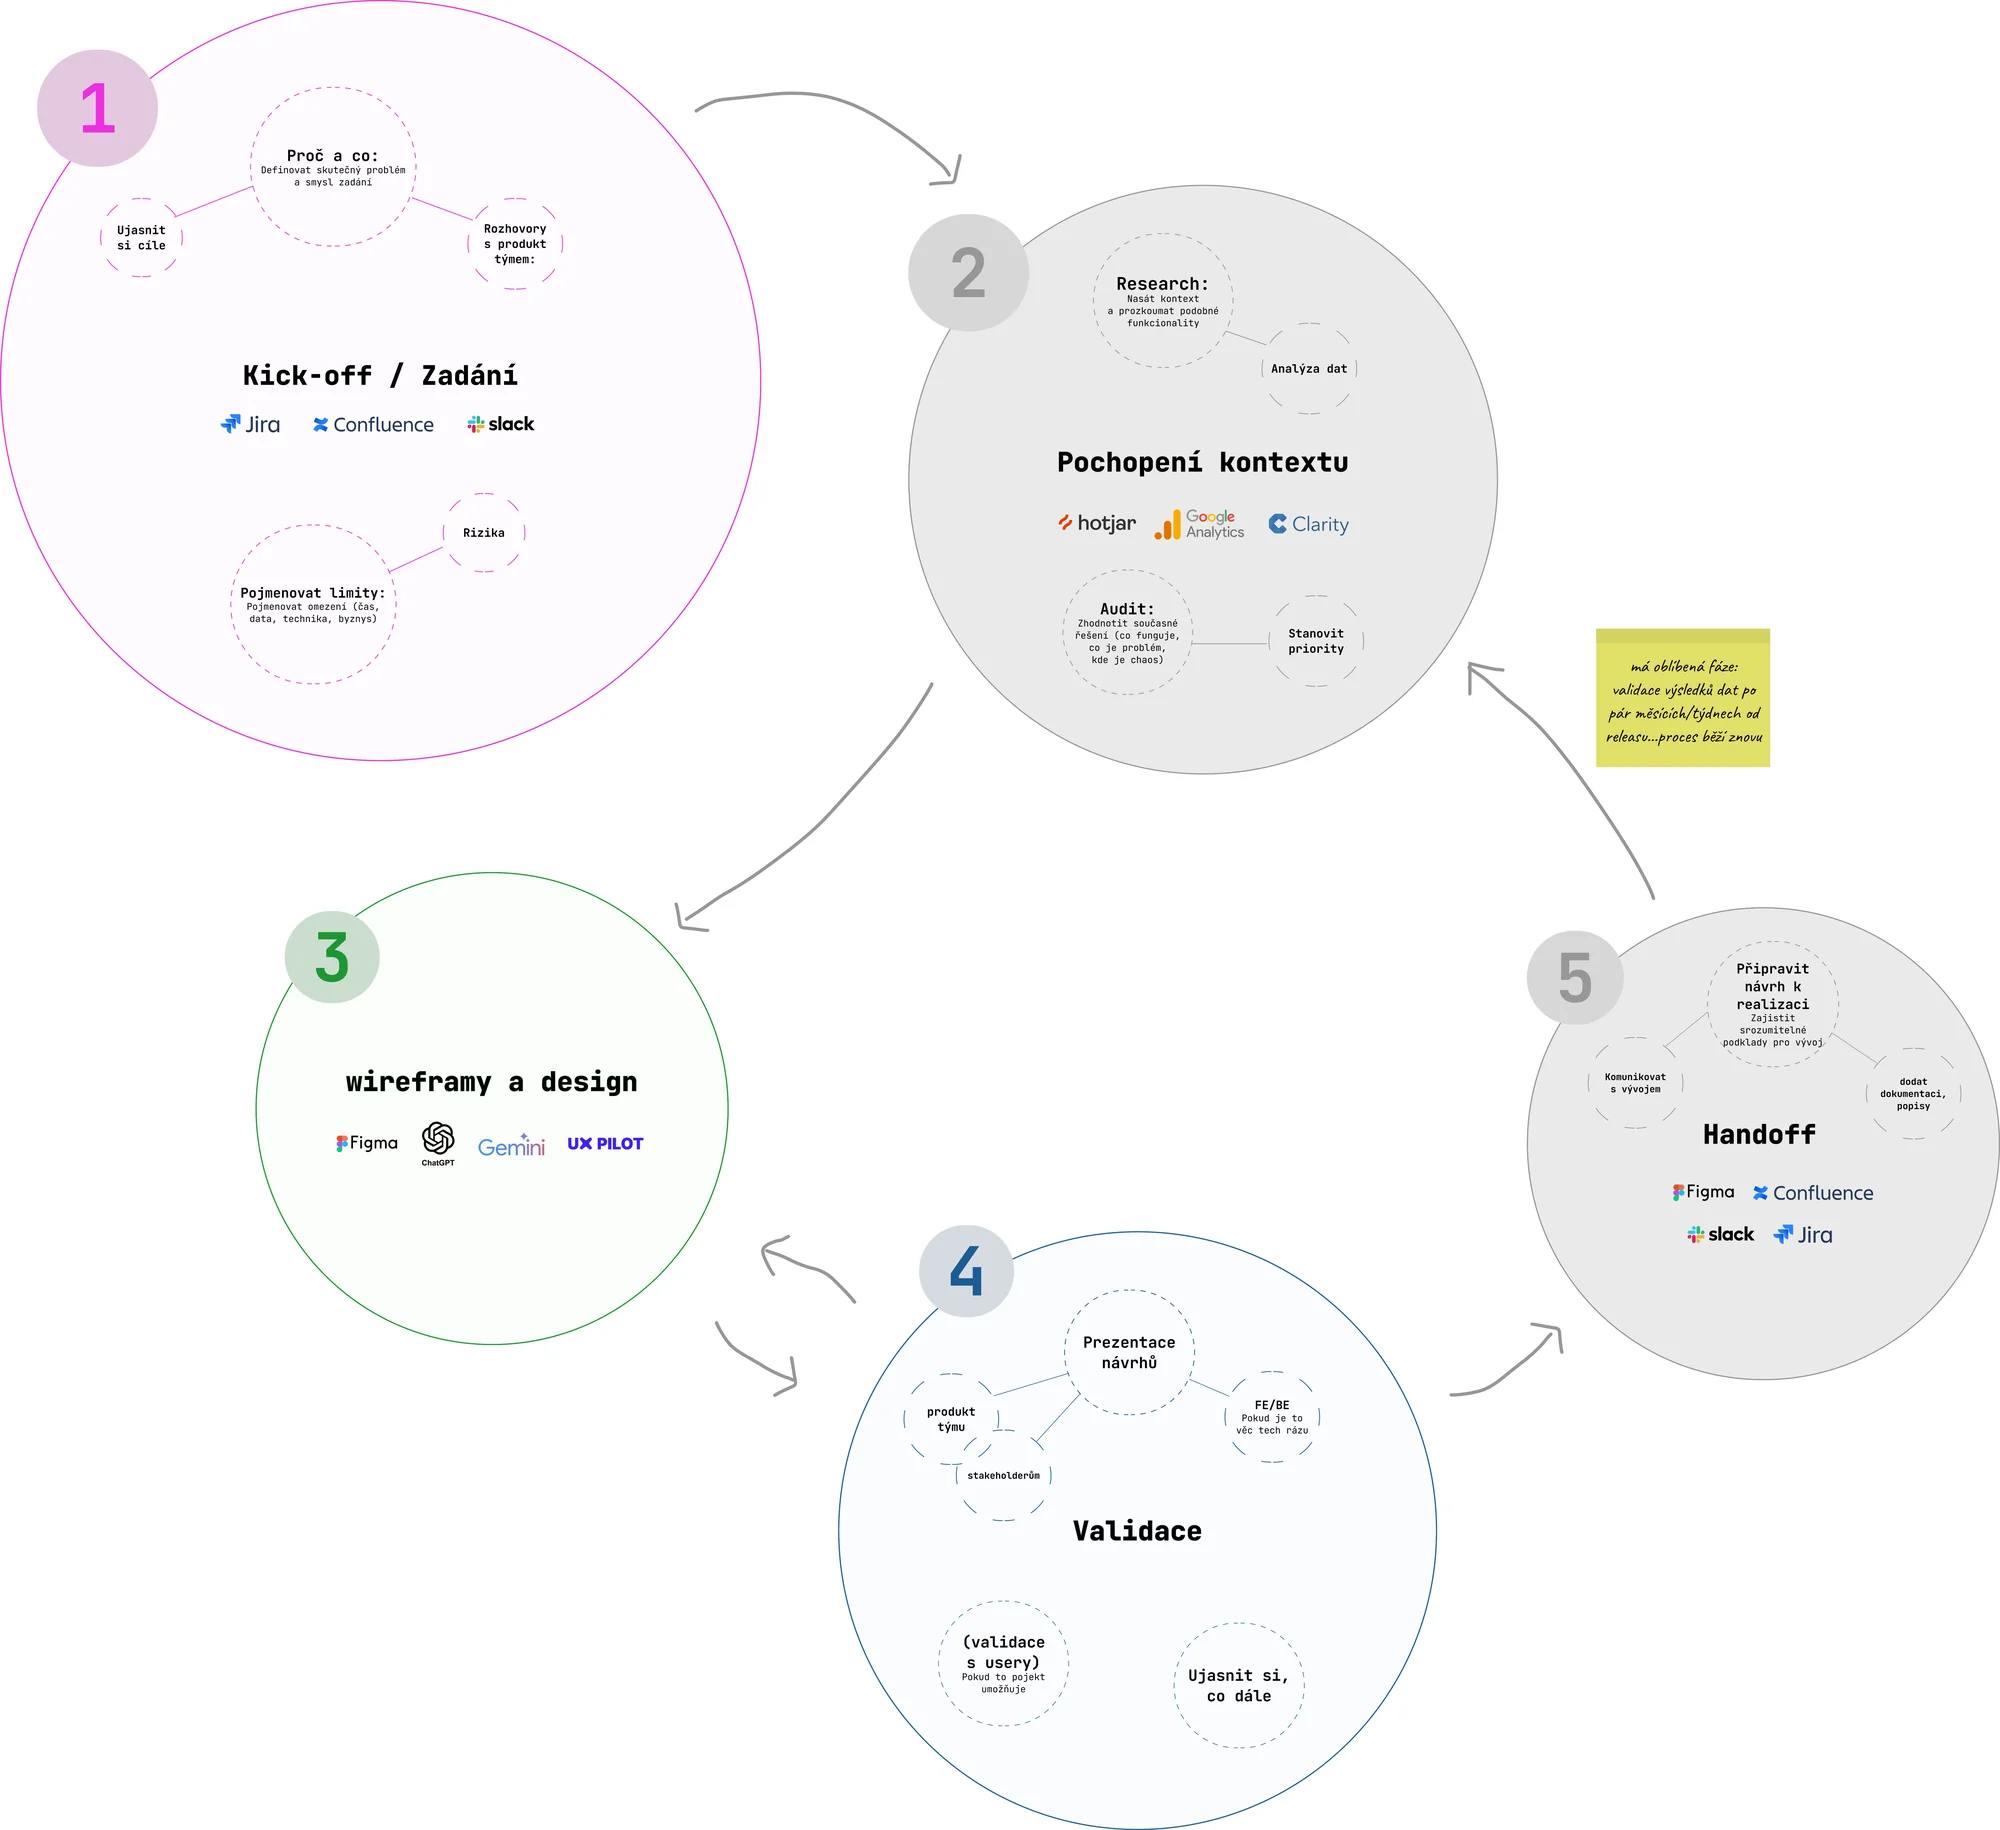
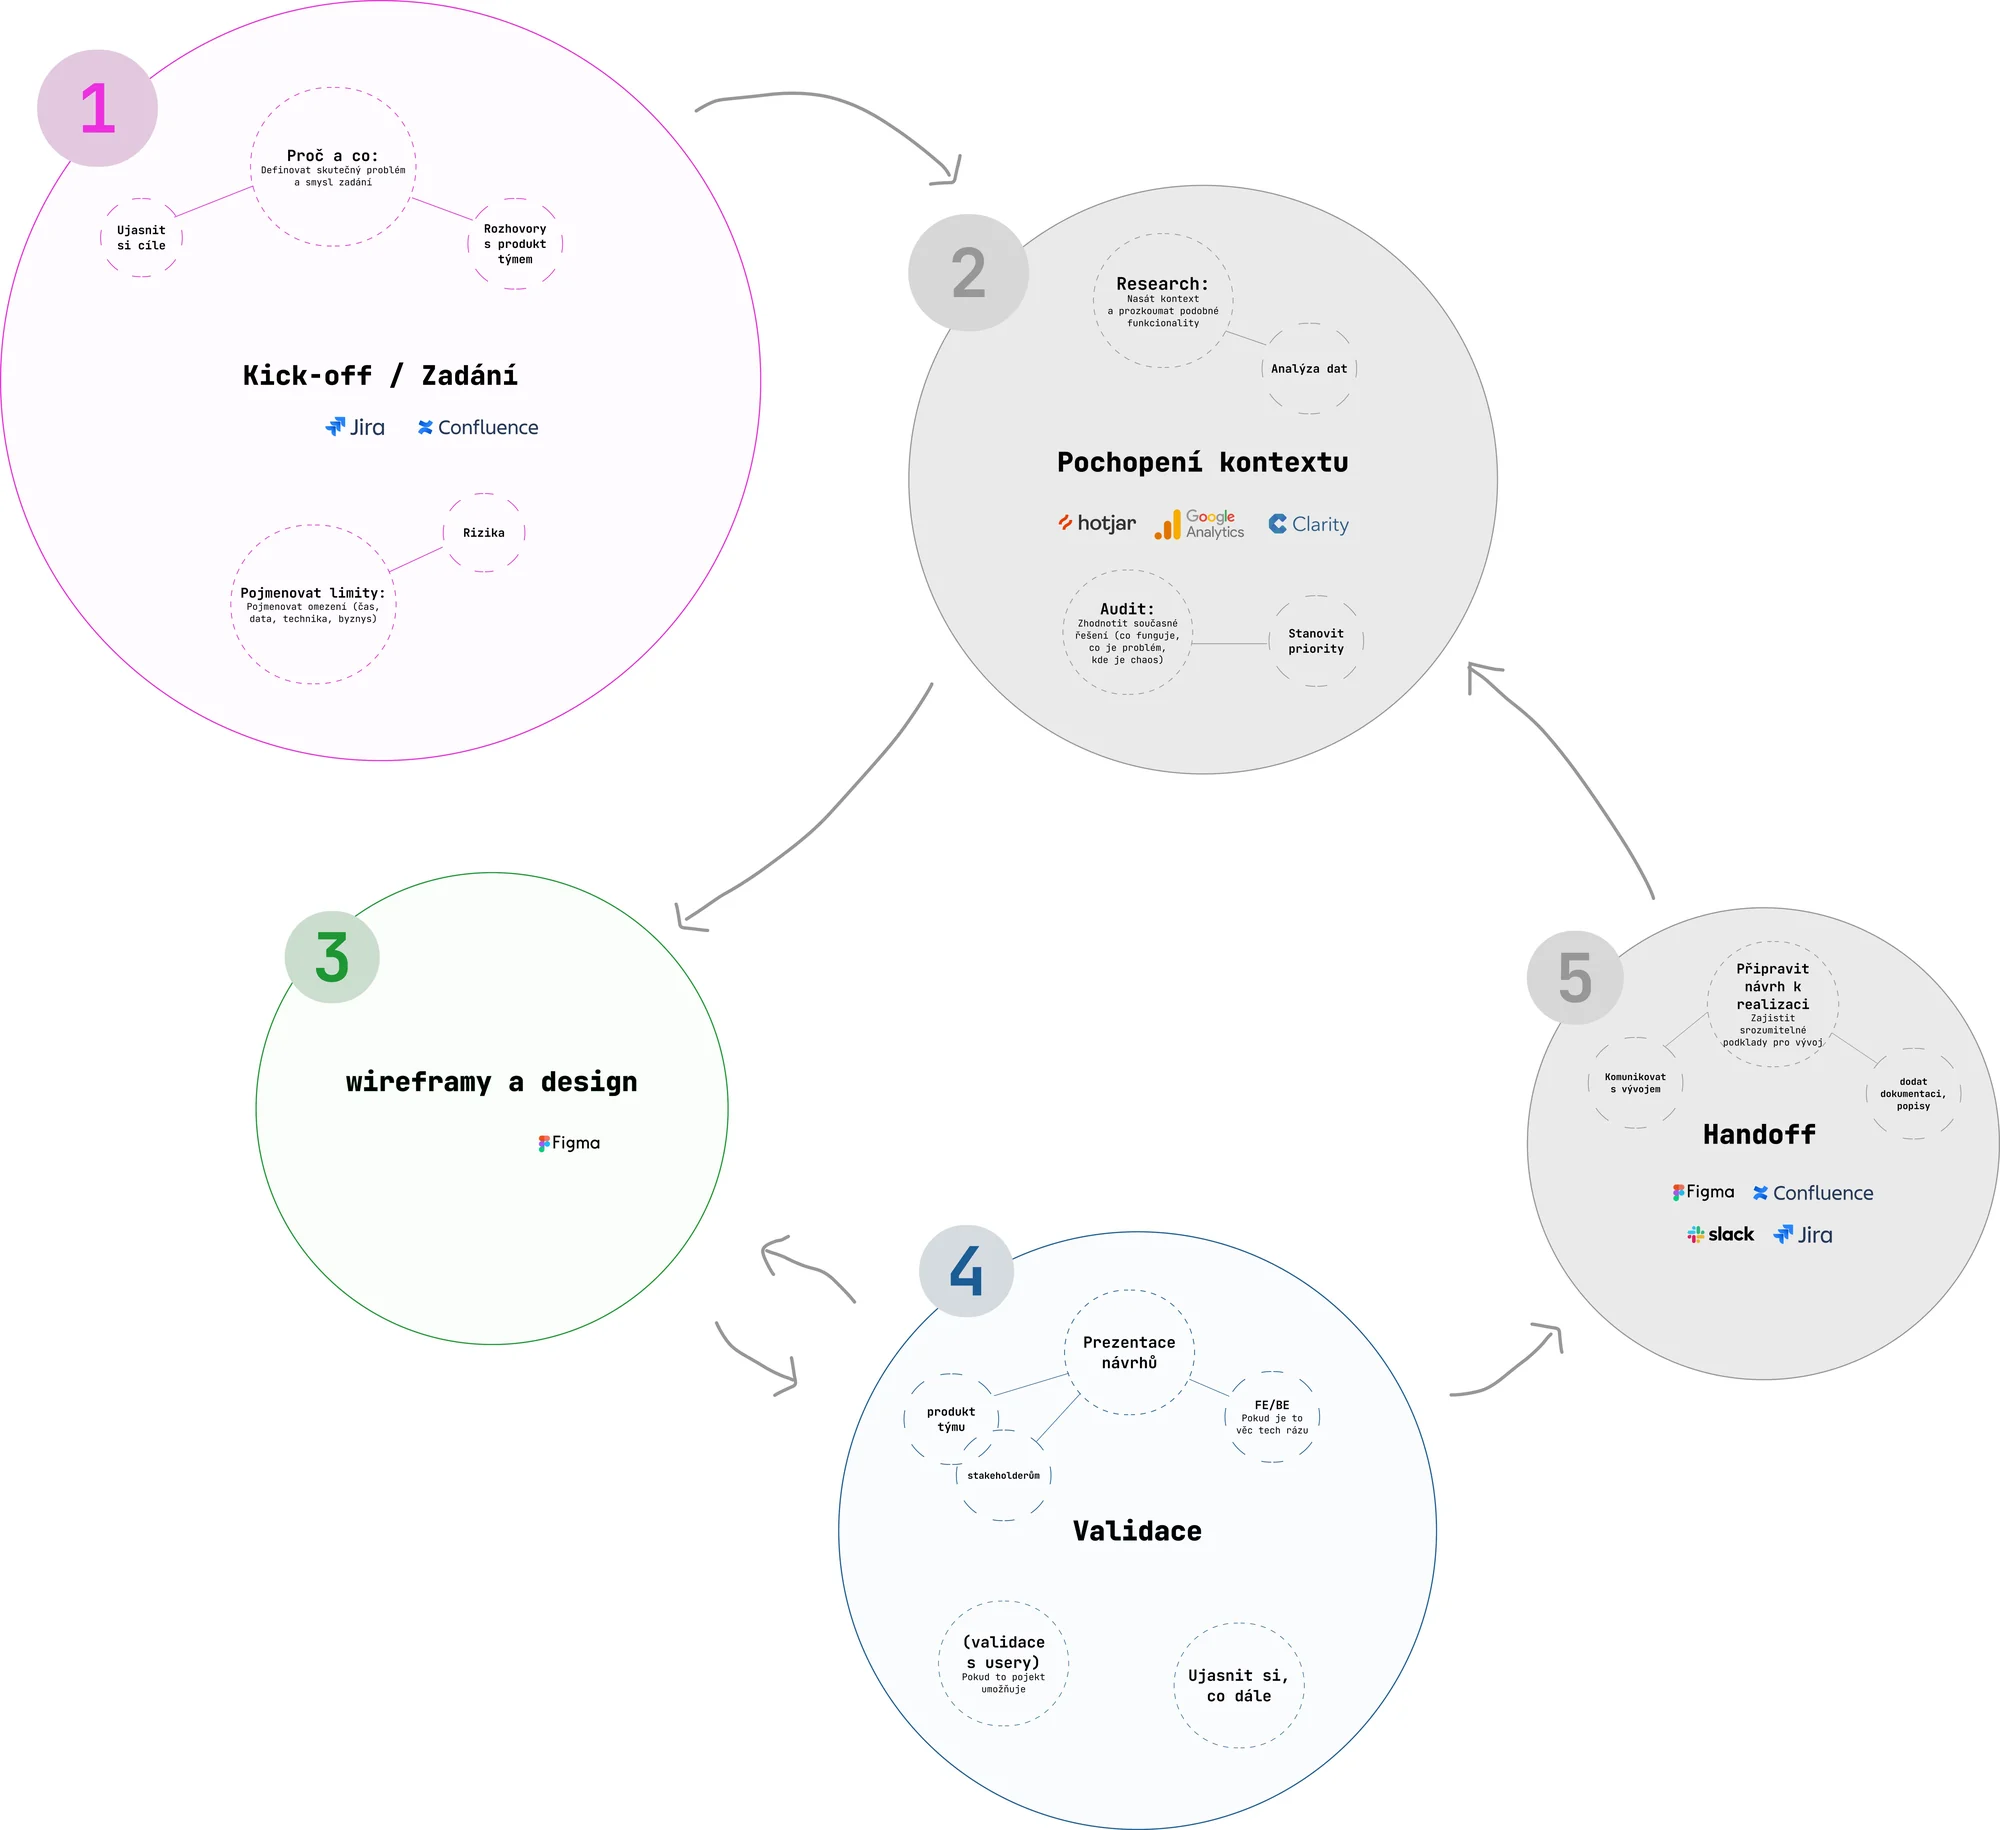
Proces: zpět obrázek, nová verze diagramu

Changed region(s): [[0.775, 0.3426, 0.899, 0.4361], [0.155, 0.218, 0.279, 0.2492], [0.217, 0.623, 0.31, 0.6541]]

diff --git a/index.html b/index.html
@@ -644,36 +644,8 @@ em{font-style:normal}
 </section>
 
 <!-- PROCESS -->
-<section class="proc wrap" id="process" aria-label="Jak pracuji">
-  <div class="flow" data-flow>
-    <svg class="flow__return" viewBox="0 0 1000 120" preserveAspectRatio="none" aria-hidden="true"><path d="M900 118 C 880 10, 360 10, 300 118" /><path class="flow__head" d="M296 97 L300 118 L318 106" /></svg>
-    <ol class="flow__track">
-    <li class="ph ph--pink" style="--i:0">
-      <div class="ph__circle"><span class="ph__n">1</span><h3 class="ph__t">Kick-off &amp; zadání</h3></div><p class="ph__mt" aria-hidden="true">Kick-off &amp; zadání</p>
-      <ul class="ph__list"><li>Proč a co — skutečný problém a smysl zadání</li><li>Ujasnit si cíle</li><li>Rozhovory s produktovým týmem</li><li>Pojmenovat limity: čas, data, technika, byznys</li><li>Rizika</li></ul>
-      <p class="ph__tools">Jira · Confluence</p>
-    </li>
-    <li class="ph ph--grey" style="--i:1">
-      <div class="ph__circle"><span class="ph__n">2</span><h3 class="ph__t">Pochopení kontextu</h3></div><p class="ph__mt" aria-hidden="true">Pochopení kontextu</p>
-      <ul class="ph__list"><li>Research — nasát kontext a prozkoumat podobná řešení</li><li>Analýza dat</li><li>Audit současného řešení: co funguje, co je problém, kde je chaos</li><li>Stanovit priority</li></ul>
-      <p class="ph__tools">Hotjar · Google Analytics · Clarity</p>
-    </li>
-    <li class="ph ph--green" style="--i:2">
-      <div class="ph__circle"><span class="ph__n">3</span><h3 class="ph__t">Wireframy &amp; design</h3></div><p class="ph__mt" aria-hidden="true">Wireframy &amp; design</p><span class="ph__loop" aria-hidden="true">⇄</span>
-      <ul class="ph__list"><li>Wireframy</li><li>Varianty řešení</li><li>Prototypy</li></ul>
-      <p class="ph__tools">Figma</p>
-    </li>
-    <li class="ph ph--blue" style="--i:3">
-      <div class="ph__circle"><span class="ph__n">4</span><h3 class="ph__t">Validace</h3></div><p class="ph__mt" aria-hidden="true">Validace</p>
-      <ul class="ph__list"><li>Prezentace návrhů produktovému týmu a stakeholderům</li><li>FE/BE, pokud jde o věc technického rázu</li><li>Validace s uživateli, pokud to projekt umožňuje</li><li>Ujasnit si, co dál</li></ul>
-    </li>
-    <li class="ph ph--grey" style="--i:4">
-      <div class="ph__circle"><span class="ph__n">5</span><h3 class="ph__t">Handoff</h3></div><p class="ph__mt" aria-hidden="true">Handoff</p>
-      <ul class="ph__list"><li>Připravit návrh k realizaci — srozumitelné podklady pro vývoj</li><li>Komunikovat s vývojem</li><li>Dodat dokumentaci a popisy</li></ul>
-      <p class="ph__tools">Figma · Confluence · Slack · Jira</p>
-    </li>
-    </ol>
-  </div>
+<section class="proc wrap" id="process">
+  <figure class="proc__fig rv"><img src="proces.webp" loading="lazy" alt="Můj designový proces v pěti fázích: 1 Kick-off a zadání, 2 Pochopení kontextu, 3 Wireframy a design, 4 Validace, 5 Handoff — a pak se proces vrací zpět k pochopení kontextu"></figure>
 </section>
 
 <!-- BRAND WALL -->
